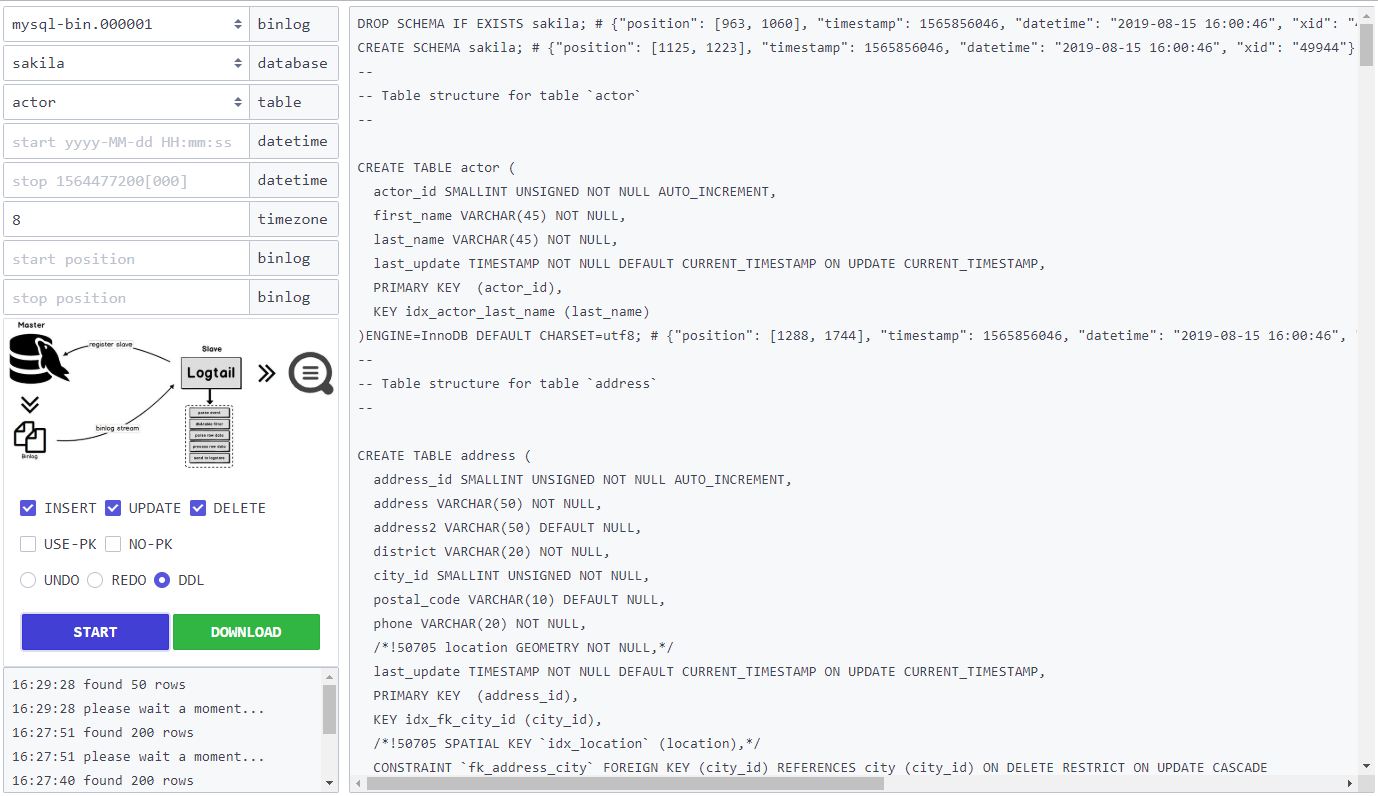
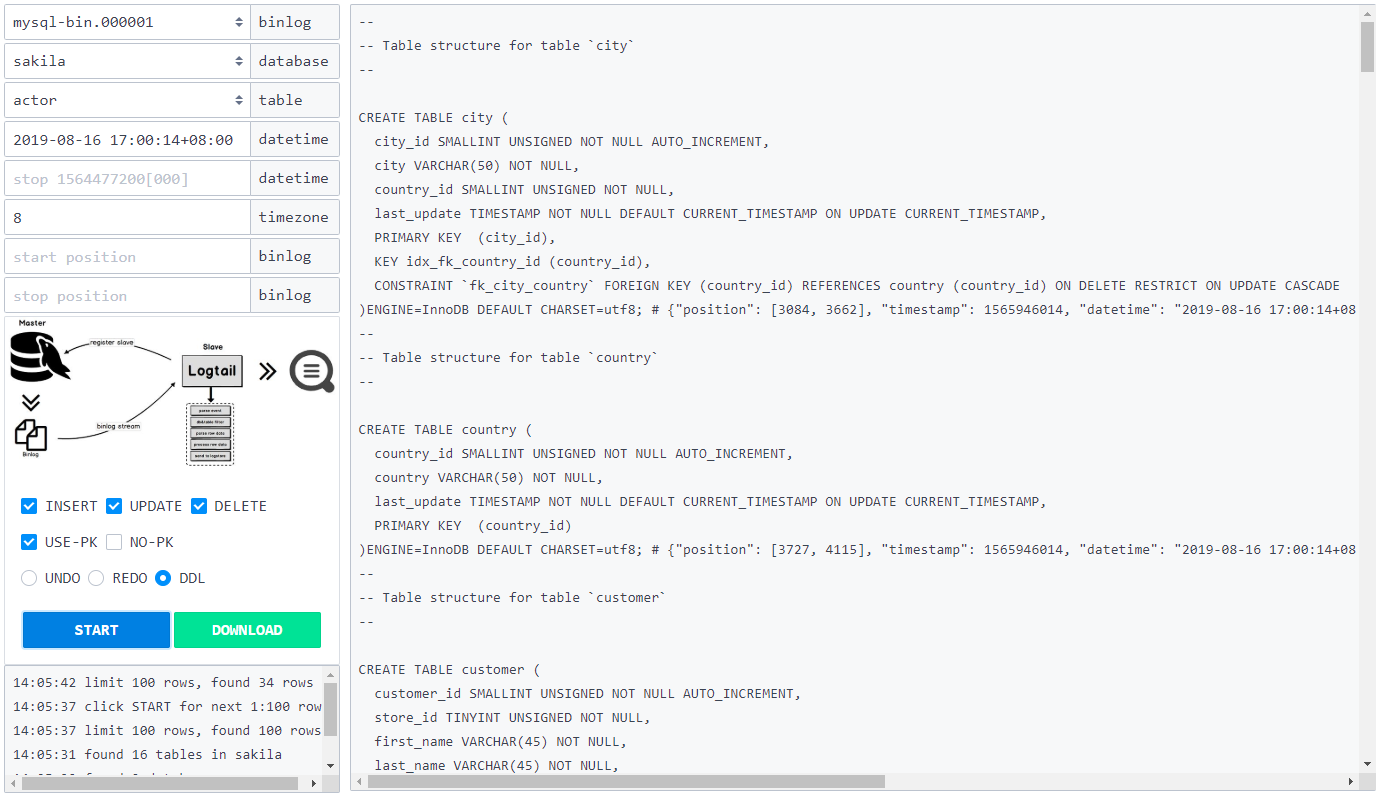
更新：1.修复时间格式转时间戳时，添加时区修正导致时间戳错误的问题；2.web界面新增获取下一页；3.修复ddl参数未修正的bug

diff --git a/static/index.js b/static/index.js
@@ -23,6 +23,10 @@ $(document).ready(function () {
         $('select').width($('#timezone').width() - 20);
     }
 
+    $('input,select').on('change', function () {
+        show_badge(false)
+    });
+
     $('#file').on('change', function () {
         let file = $('#file').val();
         get_databases(file);
@@ -41,18 +45,19 @@ $(document).ready(function () {
         let file = $('#file').val();
         let database = $('#database').val();
         get_tables(file, database);
-        resize_select();
     });
 
     $('#table').on('click', function () {
         let database = $('#database').val();
         if (database && $('#table').val() == null) {
             let file = $('#file').val();
-            get_tables(file, database)
+            get_tables(file, database);
+            resize_select();
         }
     });
 
     $("#start").click(function () {
+        let data = {};
         let _data = {
             'file': $('#file').val(),
             'database': $('#database').val(),
@@ -61,12 +66,10 @@ $(document).ready(function () {
             'timezone': $('#timezone').val(),
             'start_position': $('#start-position').val(),
             'stop_position': $('#stop-position').val(),
-            'output_type': $("#output-type input:checked").prop('value')
+            'output_type': $("#output-type input:checked").attr('value'),
+            'page': $(this).attr('data-badge')
         };
-        let data = {}
-        if (_data['output_type'] == 'DDL') {
-            data = _data
-        } else {
+        if (_data['output_type'] != 'DDL') {
             let sql_type = [];
             let $input = $('#sql-type input:checked');
             for (let i = 0; i < $input.length; i++) {
@@ -77,21 +80,21 @@ $(document).ready(function () {
             _data['use_pk'] = $("#pk-type input:first").prop('checked').toString();
             _data['no_pk'] = $("#pk-type input:last").prop('checked').toString();
             _data['undo'] = $("#output-type input:first").prop('checked').toString();
-            for (key in _data) {
-                if (_data[key]) {
-                    if (['start_time', 'stop_time'].indexOf(key) >= 0) {
-                        let unixtime = timestamp(_data[key]);
-                        if (unixtime > 0) {
-                            data[key] = unixtime
-                        }
-                    } else {
-                        data[key] = _data[key]
-                    }
-                }
-            }
             if (data['sql_type'] == '[]') {
                 $.popUp('please choose [INSERT, UPDATE, DELETE]', 'error')
                 return
+            }
+        }
+        for (key in _data) {
+            if (_data[key] != '') {
+                if (['start_time', 'stop_time'].indexOf(key) >= 0) {
+                    let unixtime = timestamp(_data[key]);
+                    if (unixtime > 0) {
+                        data[key] = unixtime
+                    }
+                } else {
+                    data[key] = _data[key]
+                }
             }
         }
         $(this).addClass('loading');
@@ -103,14 +106,24 @@ $(document).ready(function () {
             success: function (data) {
                 $("#start").removeClass('loading');
                 let $sql = $('#sql');
+                let limit = data['max'];
+                let count = data['sql'].length;
                 $sql.val('');
-                log('found {0} rows'.format(data.length));
+                log('limit {0} rows, found {1} rows'.format(limit, count));
                 let sqls = '';
-                for (sql of data) {
+                for (sql of data['sql']) {
                     sqls = sqls + '{0}\n'.format(sql)
                 }
                 if (sqls) {
                     $sql.val(sqls);
+                    if (limit == count) {
+                        let number = show_badge(true);
+                        log('click START for next {0}:{1} rows'.format(number, limit))
+                    } else {
+                        show_badge(false)
+                    }
+                } else {
+                    show_badge(false)
                 }
             },
             error: function () {
@@ -123,7 +136,7 @@ $(document).ready(function () {
         let filename = '{0}-{1}-{2}.sql'.format(
             $('#database').val(),
             $('#table').val(),
-            $("#output-type input:checked").prop('value')
+            $("#output-type input:checked").attr('value')
         );
         let sql = $('#sql').val();
         download(filename, sql);
@@ -239,5 +252,17 @@ $(document).ready(function () {
             hour = '0' + hour
         }
         return hour + time.slice(2, 8)
+    }
+
+    function show_badge(bool) {
+        let number = '0';
+        if (bool) {
+            $start = $('#start');
+            number = (parseInt($start.attr('data-badge')) + 1).toString();
+            $start.addClass('badge').attr('data-badge', number)
+        } else {
+            $('#start').removeClass('badge').attr('data-badge', number)
+        }
+        return number;
     }
 });

diff --git a/static/index.html b/static/index.html
@@ -96,7 +96,7 @@
                         </div>
                     </div>
                     <div class="card-footer input-group">
-                        <button type="button" class="btn btn-primary" id="start">START</button>
+                        <button type="button" class="btn btn-primary" id="start" data-badge="0">START</button>
                         <button type="button" class="btn btn-success" id="download">DOWNLOAD</button>
                     </div>
                 </div>

diff --git a/web.py b/web.py
@@ -60,7 +60,7 @@ def tables():
 def binlogs():
     timezone = pytz.FixedOffset(int(request.form.get('timezone')) * 60)
     rows, func, use_pk, no_pk = fetch_all()
-    sqls, regex = [], re.compile(r'\.\d+')
+    result, regex = {'max': config.OUTPUT_ROWS_LIMIT, 'sql': []}, re.compile(r'\.\d+')
     if len(rows):
         rows.index = rows.index.map(timezone.normalize)
         rows['data'] = rows['data'].apply(_base64_decode)
@@ -76,8 +76,8 @@ def binlogs():
             }
             if config.OUTPUT_ROWS_EXTRA:
                 sql = sql + f" # {json.dumps(annotation)}"
-            sqls.append(sql)
-    return jsonify(sqls)
+            result['sql'].append(sql)
+    return jsonify(result)
 
 
 def fetch_all():
@@ -87,6 +87,7 @@ def fetch_all():
     stop_time = request.form.get('stop_time')
     start_position = request.form.get('start_position')
     stop_position = request.form.get('stop_position')
+    page = int(request.form.get('page'))
     extend = ''
     if start_time:
         extend += f' AND time>={int(start_time) * config.NANO}'
@@ -108,7 +109,6 @@ def fetch_all():
             AND "type"='DDL'
             {extend}
             ORDER BY time
-            LIMIT {config.OUTPUT_ROWS_LIMIT}
             """
     else:
         table = request.form.get('table')
@@ -125,8 +125,8 @@ def fetch_all():
             AND ({sql_type})
             {extend}
             ORDER BY time {output_type and 'DESC' or 'ASC'}
-            LIMIT {config.OUTPUT_ROWS_LIMIT}
             """
+    sql += f' LIMIT {config.OUTPUT_ROWS_LIMIT} OFFSET {config.OUTPUT_ROWS_LIMIT * page}'
     rows = influx(sql)
     if output_type is None:
         func = ddl_sql
